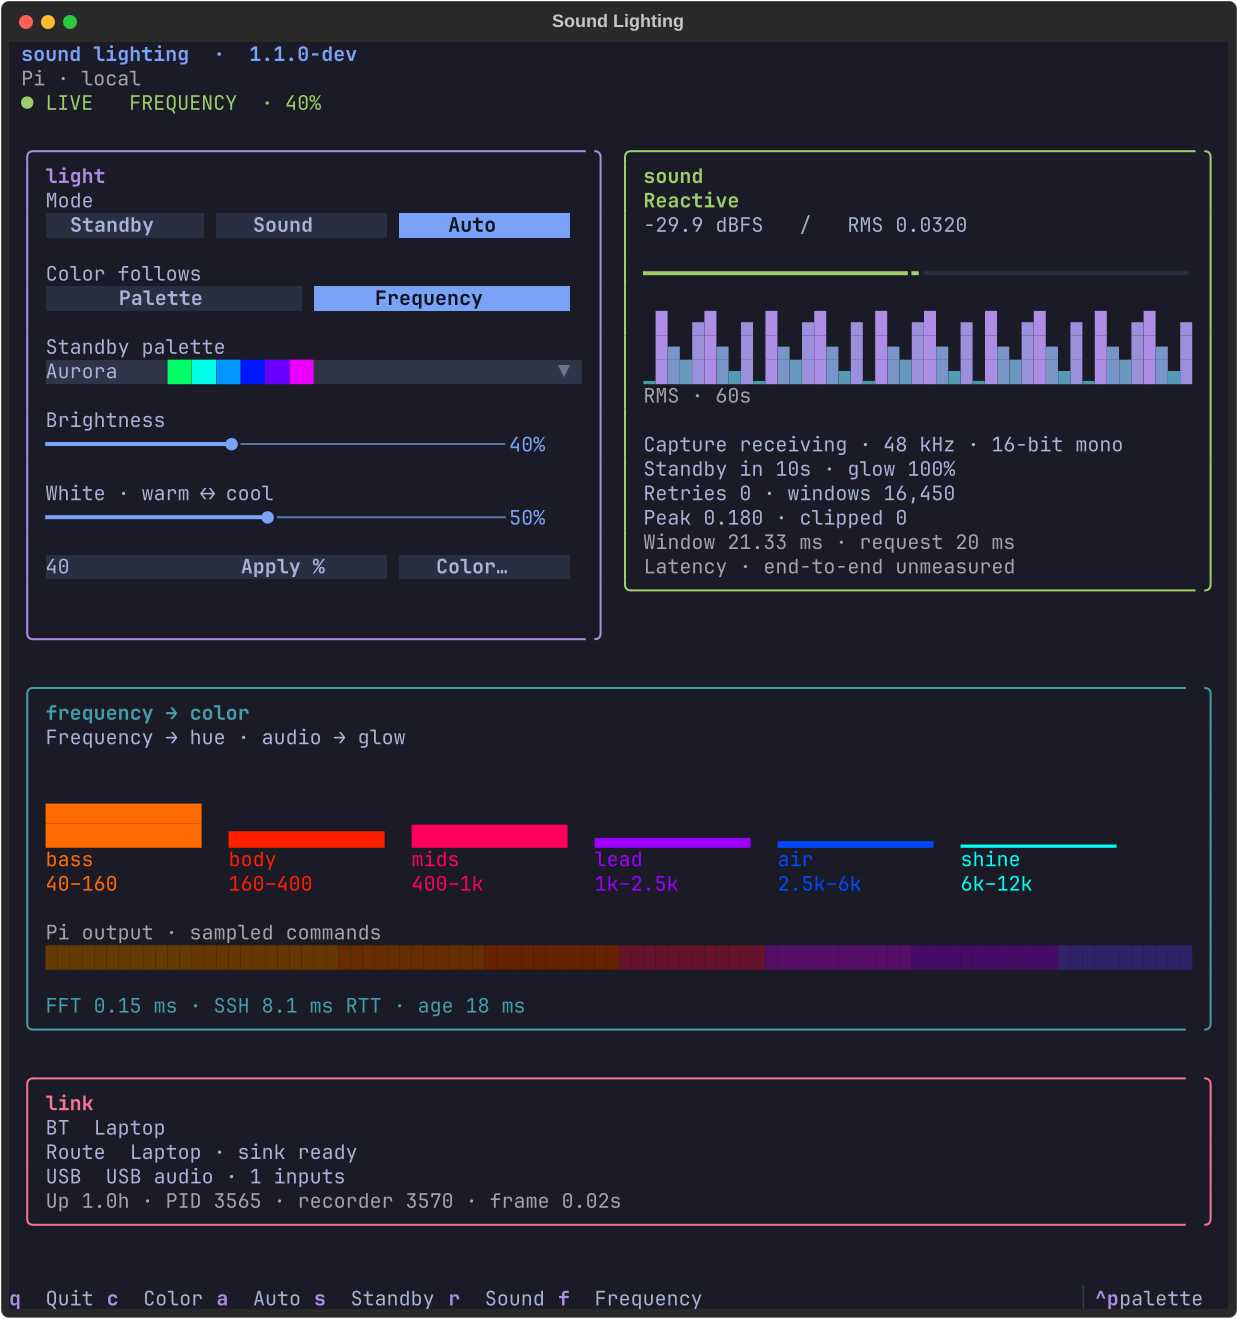
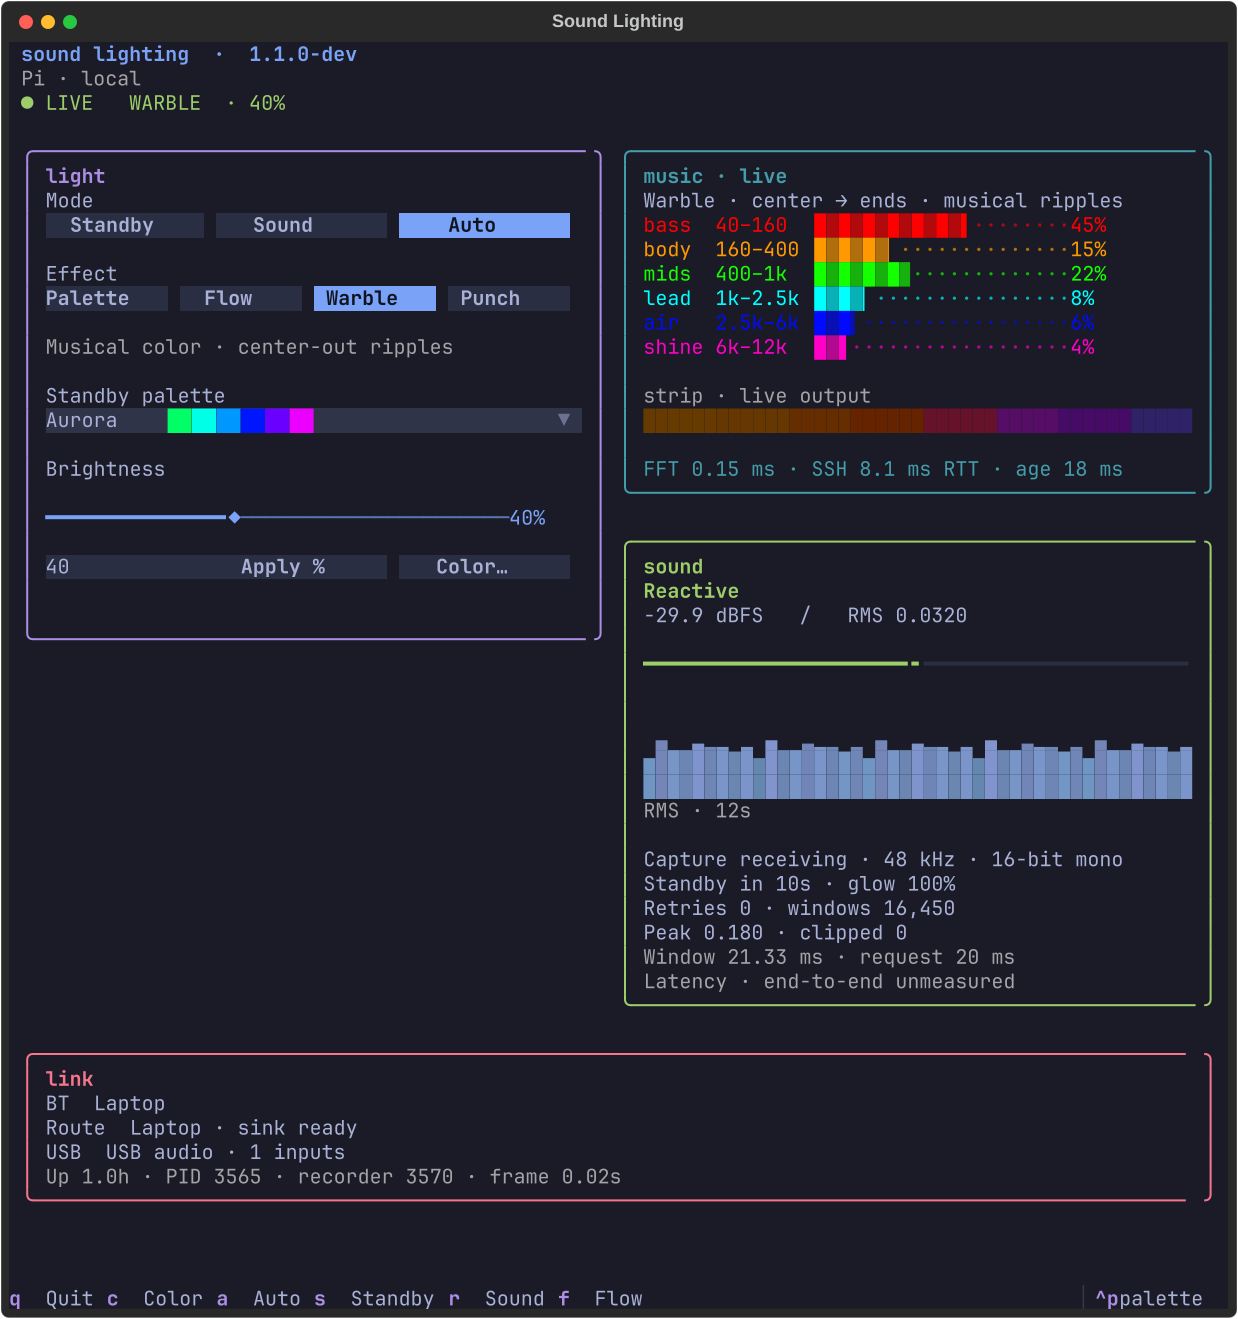
docs: introduce Warble and the simplified musical dashboard

diff --git a/docs/spectrum.md b/docs/spectrum.md
@@ -1,9 +1,9 @@
 # Color that listens
 
-`feature/spectral-color` builds on `TUI`. Select **Frequency** under **Color follows** in the dashboard,
+`feature/spectral-color` builds on `TUI`. Select **Flow**, **Warble**, or **Punch** in the dashboard’s **Effect** row,
 with **Auto** or **Sound** enabled, to let musical frequency balance shape the strip’s color.
-Choose **Flow** for the existing gentle look or **Punch** for faster, stronger musical contrast.
-The master brightness slider caps both styles.
+Choose **Flow** for smooth musical color, **Warble** for gentle ripples, or **Punch** for adjustable contrast.
+The master brightness slider caps every effect.
 
 ## Is it viable?
 
@@ -25,7 +25,7 @@ provides the spectrum; a Hann window reduces leakage between neighboring bins.
 These windows are separate from the Pi’s existing 21.33 ms loudness analysis.
 
 Six broad bands represent tonal balance rather than identifying notes or instruments.
-Both Flow and Punch use the same color mapping:
+Flow, Warble, and Punch use the same color mapping:
 
 | Band | Frequencies | Color |
 | --- | --- | --- |
@@ -36,11 +36,14 @@ Both Flow and Punch use the same color mapping:
 | Air | 2.5–6 kHz | Blue |
 | Shine | 6–12 kHz | Magenta |
 
-## Flow / Punch
+## Flow / Warble / Punch
 
 **Flow uses the Punch engine at a fixed 45%**, independently of the saved Punch
-slider value. **Punch** uses the adjustable amount. The controls and layout stay
-the same; Standby / Sound / Auto remain the three
+slider value. **Warble** layers a subtle ripple over that same Flow field.
+Each physical strip has its own center: waves travel toward both ends, with up
+to 18% shading and less than two addressable groups of color displacement. Bass
+slows the ripple; brighter notes quicken it. Motion glides rather than retriggering
+on every beat, and quiet input releases its depth. **Punch** uses the adjustable amount; Standby / Sound / Auto remain the three
 operating modes. **Punch** maps bass → red, body → gold, mids → green, lead → cyan,
 air → blue, and shine → magenta. Strong bands claim colored regions across the
 span. Broader overlapping regions and gentler band emphasis reduce abrupt color
@@ -50,7 +53,7 @@ without slowing the attack; there is no timed strobe.
 At the default **50% Punch**, laptop RMS controls a fast adaptive envelope
 (25 ms attack, 160 ms release), with
 stronger contrast from roughly 2.5% to 100% of the master cap. Per-pixel smoothing
-uses 35 ms on rising channels and 90 ms on falling channels, in both styles.
+uses 35 ms on rising channels and 90 ms on falling channels, in all three effects.
 These are filter time constants, **not measured end-to-end latency**. Punch renders
 at up to 60 fps; the existing FFT feed remains up to 20 Hz with 42.67 ms windows.
 No extra FFT runs on the Pi. Timing still includes capture, SSH, and Bluetooth.
@@ -74,8 +77,8 @@ delay. Adjusting Punch preserves Flow/Punch selection, operating mode, and brigh
 Quiet feature frames remain dark instead of briefly flashing the standby palette.
 Missing/expired features fade back to the selected palette; Pi audio still controls
 mute dimming and the Auto timeout. Switching styles preserves mode, palette, and
-brightness. `frequency_style` persists as `flow` or `punch`; older settings default
-to Flow. Standby remains the selected ambient palette in either style.
+brightness. `frequency_style` persists as `flow`, `warble`, or `punch`; older settings default
+to Flow. Standby remains the selected ambient palette with every effect.
 
 ## Three modes, one visible control row
 
@@ -86,15 +89,15 @@ to Flow. Standby remains the selected ambient palette in either style.
   Silence dims quickly, then the chosen standby palette returns at the timeout.
   New audio switches back immediately. `lights quiet` can customize the timeout.
 
-**Color follows: Palette / Frequency** is separate from operating mode. Frequency
-opens its own pane, showing six colored band shares and Hz ranges, the actual
-sampled Pi color commands, and whether audio or the standby palette is controlling
-output. These are up to **5 Hz snapshots** of a 20 Hz feature feed and 60 Hz
-renderer. RGB preview includes smoothing and master brightness; terminal color
-is approximate and does not measure the strip. Stale telemetry clears the preview.
+**Effect: Palette / Flow / Warble / Punch** is separate from operating mode.
+Musical effects open the live pane with six colored band shares and Hz ranges,
+sampled Pi color commands, and the active effect or standby state. Band features
+arrive at up to **20 Hz**; the RGB preview samples the 60 Hz renderer at **5 Hz**.
+It includes smoothing and master brightness; terminal color is approximate and
+does not measure the strip. Stale telemetry clears the preview.
 
 The palette picker displays a row of color swatches for every option. Picking
-another standby palette while Frequency is enabled does not disable Frequency;
+another standby palette keeps the musical effect selected;
 choosing a custom color or moving the white slider explicitly selects Palette.
 
 ![Frequency pane preview](images/spectrum.png)
@@ -167,7 +170,7 @@ and `garage_dual`). Existing endpoint customizations survive reinstallation.
 The enabled user unit starts with the laptop session and reconnects when the Pi
 returns. It does not select a scene or alter laptop routing/volume/mute.
 
-Reopen **SUPER+SPACE → Sound Lighting**, select **Frequency**, and choose **Auto**.
+Reopen **SUPER+SPACE → Sound Lighting**, select **Warble**, and choose **Auto**.
 Alternatively, on the Pi:
 
 ```sh
@@ -176,7 +179,7 @@ sudo lights mode auto
 sudo lights quiet 10
 ```
 
-Play music. The Frequency pane shows the band balance, a strip preview, local FFT duration,
+Play music. The music pane shows the band balance, a strip preview, local FFT duration,
 SSH RTT, and feature freshness. If the feed is unavailable it explicitly shows fallback.
 For logs: `journalctl --user -u sound-lighting-spectrum.service -n 30`.
 
@@ -231,3 +234,13 @@ python -m unittest discover -s tests -p test_spectrum.py
 Known tones and mixtures verify band mapping, volume/DC invariance, and silence.
 Tests also cover bad packets, clock/TTL handling, warm/cool output, idle fallback,
 expired network challenges, capture recovery, and child-process cleanup.
+
+## Live musical display
+
+The music pane sits beside the controls in a wide terminal and above the sound
+history in a narrow one. It reads fresh FFT features over SSH at up to **20 Hz**,
+independently of the engine’s 5 Hz status writer. No additional FFT or faster
+status-file writes are needed on the Pi. The bars use a fixed expanded scale,
+25 ms attack, 140 ms release, fractional block steps, subtle ridges, and falling
+peak marks. Percentages remain measured band shares; display smoothing never
+changes the LEDs. Stale input clears the bars and peak marks.

diff --git a/docs/dashboard.md b/docs/dashboard.md
@@ -31,26 +31,26 @@ agent; the light service and laptop audio helper keep running.
 
 On the Pi: `sudo lights tui` still works after `bash install/install-tui.sh`.
 For observation only on the laptop: `sound-lighting --read-only`.
-Use a terminal around **100 columns × 32 rows** for the full view. Narrower windows
+Use a terminal around **100 columns × 52 rows** for the full view. The music pane sits beside the controls. Narrower windows
 stack the panels; scroll or Tab to reach the remaining controls. The app tiles,
 resizes, and moves between workspaces normally; it no longer forces a floating size.
 
 | Control | What happens |
 | --- | --- |
 | Mode / S / R / A | Standby keeps the selected palette; Sound stays reactive and dims while quiet; Auto returns to standby after 10 seconds without detected audio. |
-| Color follows / F | Palette holds the selected colorway; Frequency opens the spectrum pane and lets musical bands choose colors during sound. |
-| Palette | Every option shows colored swatches. With Frequency selected, this is the standby/fallback palette. |
+| Effect / F | Palette uses your colorway; Flow (F), Warble, and Punch choose musical colors in one click. Warble adds gentle center-out ripples. Punch exposes its intensity slider beside the effect buttons. |
+| Palette | Every option shows colored swatches. With a musical effect selected, this is the standby/fallback palette. |
 | Brightness | Drag for live updates; Shift-drag is finer. Arrows change 1%, PgUp/PgDn 10%, Home/End reach the limits. Exact entry + Enter or Apply % also works. Zero stays dark, including after reboot. |
-| Punch · gentle ↔ vivid | Shown in Frequency → Punch. 0 is gentle, 50 is the balanced tuning, 100 is most vivid; fast attack stays constant. |
-| White · warm ↔ cool | Drag or use arrow keys to select steady White and adjust its tint. 0 is warm, 100 cool; 50 preserves the original Workshop white. |
+| Punch · gentle ↔ vivid | Shown beside Effect → Punch. 0 is gentle, 50 is the balanced tuning, 100 is most vivid; fast attack stays constant. |
+| White · warm ↔ cool | Choose Palette → White, then drag or use arrow keys to adjust its tint. 0 is warm, 100 cool; 50 preserves the original Workshop white. |
 | Color / C | A separate dialog with a hex field, live swatch, and eight presets. Apply selects Custom. Cancel or Escape changes nothing. |
 | Q | Close only the dashboard. |
 
-Frequency selection appears as a dedicated pane with colored band shares and Hz
+Musical effects open a dedicated live pane with colored band shares and Hz
 ranges, a strip preview, and a short explanation of what controls the output.
 The preview samples the Pi’s smoothed RGB commands after master brightness; it
-is not a measurement of the physical LEDs. Swatches are approximate. Frequency
-telemetry updates up to five times per second; narrow windows use horizontal
+is not a measurement of the physical LEDs. Swatches are approximate. Band
+telemetry arrives over SSH at up to 20 Hz; the RGB preview updates at 5 Hz; narrow windows use horizontal
 meters. Missing/stale data clears the visualization.
 
 The custom scene uses the existing slow waves and gentle sound response. It holds
@@ -87,7 +87,7 @@ hover/focus highlighting, and a warm/cool track make controls easier to read. CL
   The **20 ms request** is the recorder’s PipeWire buffer latency setting, not a
   measured transport delay ([PipeWire reference](https://docs.pipewire.org/1.4/page_man_pw-cat_1.html)).
   End-to-end latency explicitly reads **unmeasured**. Bluetooth buffering, a
-  30 Hz render loop, and intentional smoothing add delay; these components cannot
+  30/60 Hz render loop, and intentional smoothing add delay; these components cannot
   simply be summed into an accurate total. Measuring the AUX/light offset requires
   a synchronized loopback or external light/audio recording. Frame age is freshness,
   not latency.
@@ -195,3 +195,8 @@ sudo bash install/install.sh
 ```
 
 The dashboard environment can remain installed for your next visit to `TUI`.
+
+The warm/cool slider appears when **Palette → White** is selected. Musical effects
+keep the standby colorway available without showing unrelated white controls.
+The band display updates at up to 20 Hz over SSH, with crisp fractional blocks,
+short release, and falling peak marks; the sound history retains its 12-second view.

diff --git a/CHANGELOG.md b/CHANGELOG.md
@@ -2,6 +2,19 @@
 
 ## Experimental · feature/spectral-color
 
+**Warble:** Flow’s balanced musical colors with gentle ripples from the center of
+each physical strip. Tone shapes ripple speed; shading stays within 18% and
+master brightness still caps output. Quiet dimming and standby remain automatic.
+
+**One-click effects:** Palette / Flow / Warble / Punch sit together above the
+colorway. Mode remains Standby / Sound / Auto. Punch intensity lives beside its
+selection; warm/cool appears for White. Live music sits beside the controls in
+wide windows, with clear effect names in the status line.
+
+**Bouncier meters:** Fresh FFT features stream to the dashboard at up to 20 Hz,
+independently of the 5 Hz engine status. Fast attack, short release, fractional
+blocks, subtle ridges, and falling peaks keep a crisp terminal feel. No extra Pi FFT.
+
 **Sound graph:** Five updates per second and a 12-second scrolling window.
 A fixed dB scale, 32 vertical steps, averaged narrow buckets, and subtle ridges
 make movement finer without rescaling the whole graph when one peak arrives.

diff --git a/README.md b/README.md
@@ -16,10 +16,10 @@ Laptop audio ────────────┤
 
 **Experimental:** [Frequency-driven color](docs/spectrum.md) on `feature/spectral-color`.
 A laptop FFT gives bass, mids, and highs their own colors; the Pi keeps its quiet
-and standby behavior. Choose **Frequency + Auto** in the dashboard. A dedicated pane shows the frequency
+and standby behavior. Choose **Warble + Auto** in the dashboard. A dedicated pane shows the frequency
 balance and outgoing colors; palette options have swatches. Standby, Sound, and
-Auto are visible buttons. Choose **Flow** for gentle ribbons or **Punch** for fast,
-vivid musical contrast. Auto uses a **10-second** quiet window.
+Auto are visible buttons. The **Effect** row puts **Flow**, **Warble**, and **Punch** one click away: smooth musical color,
+gentle center-out ripples, or adjustable contrast. Auto uses a **10-second** quiet window.
 Adding another span? See the [dual-strip setup](docs/second-strip.md).
 
 ## Light it up
